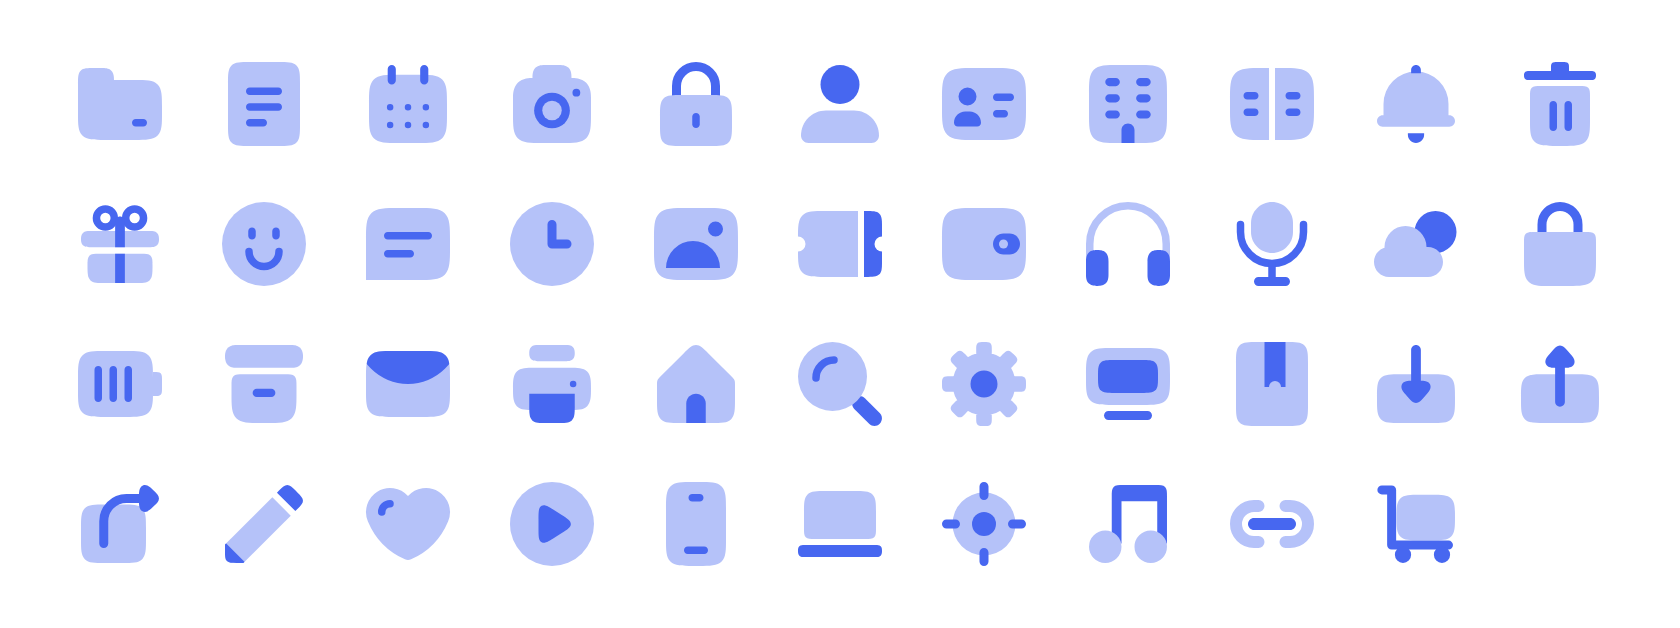
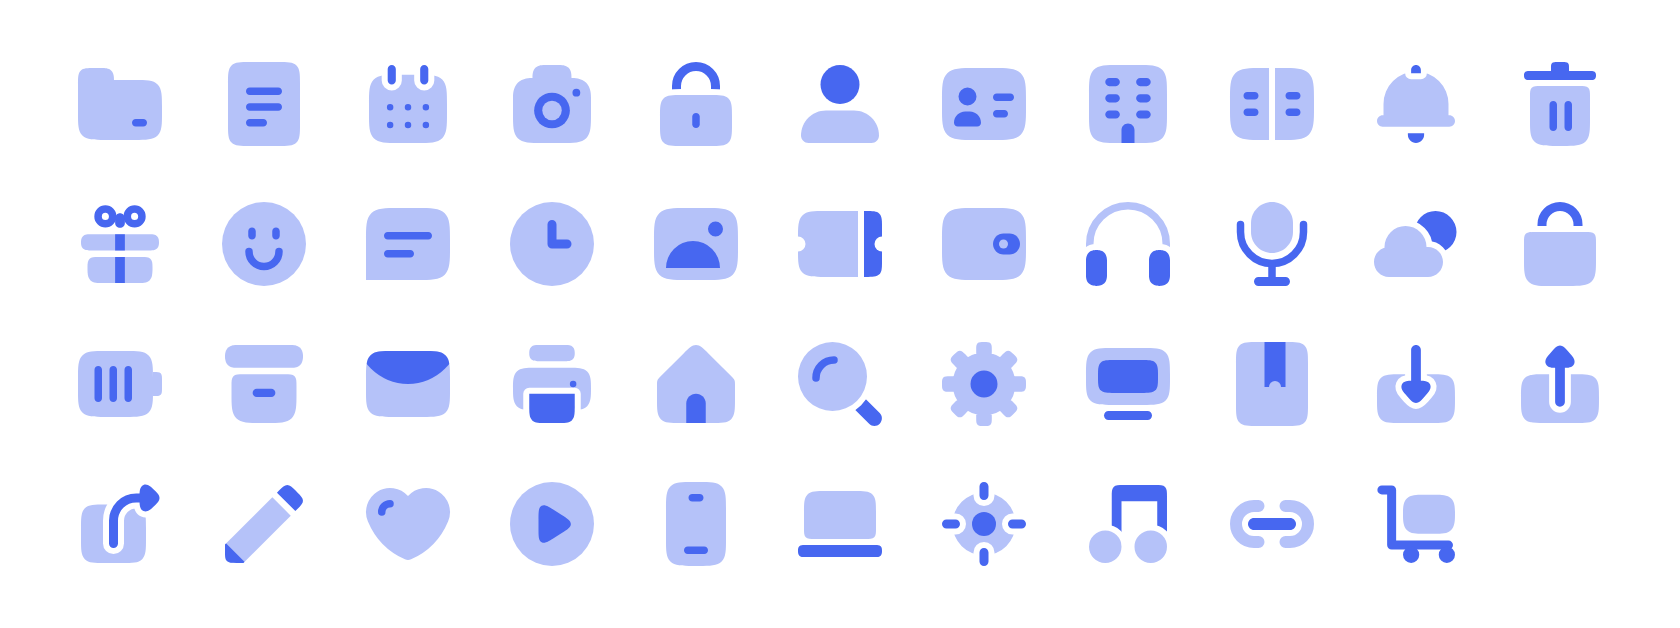
feat(skill): keep a line width between elements and align related parts
Front elements now cut a knockout outline into what they overlap (cloud,
lock, headphones, search, bag, music, arrows, calendar posts, bell knob,
printed sheet, location ticks). The gift's bow and the cart's basket
keep a gap of 1. The share arrow stands on the box's centre line, and the
cart's wheels sit symmetrically under its basket. The guide states the
gap, knockout and alignment rules.

diff --git a/styles/duotone/GUIDE.md b/styles/duotone/GUIDE.md
@@ -41,7 +41,7 @@
   - 钱包上一个大圆扣：像眼睛或摄像头。扣子要小，收在钱包里面。
   - 圆顶加一条平檐的铃铛：像餐盖。铃铛要有铃舌，檐只有 1.75 高。
   - 两块并排的楼：像柱状图或电池。建筑画成一栋楼，配两列窗条和一扇门。
-  - 两个实心圆的蝴蝶结：像一双眼睛。蝴蝶结画成两个圆环加一个结，落在盒盖上。
+  - 两个实心圆的蝴蝶结：像一双眼睛。蝴蝶结画成两个圆环加一个结，在盒盖上方隔一个线宽。
   - 一页六条线的书：像柜子。每页最多两条线。
   - 两个半圆的山：像两团东西。图片里只画一座山和一个太阳。
   - 购物袋和锁轮廓相同：靠提手和锁梁的粗细、锁孔区分。
@@ -75,7 +75,7 @@
   - 主色只是细节（线、点、指针、小部件）时，一般在三分之一左右或更少。
   - 主色是物体的一个大部件（屏幕、信封盖、耳罩、吐出的纸、放大镜圈）时，可以更多。
   - 不管哪种，都不能超过 60%。
-- **两种颜色直接相接，不留白缝。** 主色压在辅色上，靠深浅区分。这一条说的是一个部件落在另一个部件上面或里面的情况；两个分开的部件（电脑的屏幕和底座、盖子和箱体）不管什么颜色，都按第 6 节隔 1。
+- **印在主体上的细节和主体直接相接，不留白缝。** 主色细节完全印在浅色主体里面时，靠深浅区分，不加白边。分开的元素，以及跨过另一个元素边缘、压在它上面的元素，不管什么颜色，都按第 6 节处理：隔一个线宽，或者用白色描边蒙版切开。
 - **白色只用在两处：**
   - 几何上把一个物体分开的缝，比如盖子和箱体、书的两页、票和票根。
   - 主色部件上本来就是孔的地方，比如镜头中心、钱包扣的扣眼。
@@ -117,15 +117,28 @@
 - 细节要轻：线太粗、点太大、离边太近，都会显得稚嫩。
 - 表盘类（时钟、笑脸）是浅色表面，指针和五官用 1.25–1.5 的主色线条。不加外框，加了会像线性图标。
 
-## 6. 间距
+## 6. 间距、遮挡和对齐
 
-- 相邻两个元素只有两种关系：
-  - **相接或叠放：** 太阳藏在云后、蝴蝶结落在盒盖上、锁梁插进锁体、耳机头梁伸进耳罩。
-  - 叠放要有明确的遮挡关系：后面的元素被前面的盖住一块，约四分之一到三分之一，一眼看得出谁在前、谁在后。只擦到边的叠放和"差一点没接上"一样，看不出关系（太阳和云的画法见 `cloud`）。
-  - **正好隔 1：** 头和身体、盖子和箱体、书的两页、票和票根、话筒头和支架。
-- 不允许 0.5 这种"差一点没接上"的距离，也不允许 2 以上"飘在外面"的距离。
-- 一组并列的同类物体（两个开关、三张卡片）之间也按这一条：要么相接，要么正好隔 1。
-- 同一主体上的主色细节（眼睛和嘴、镜头和闪光灯、几条字线）是细节的节奏，按第 5 节处理，不按这一条。
+- **分开的元素之间至少隔一个线宽 `W`（1），而且正好是 1。** 刚好贴着（0）和差一点（0.5）都不行，飘出去 2 以上也不行。例如头和身体、盖子和箱体、书的两页、票和票根、蝴蝶结和盒盖、购物车的车筐和车架、话筒头和支架。
+- **一个元素压在另一个元素上面时，前面的元素加一圈宽 `W` 的白色描边蒙版（`gap: W`），把后面的元素切开。** 这样两个元素之间同样隔着一个线宽，又能看出谁在前。例如：
+  - 云挡住太阳。
+  - 锁体挡住锁梁，袋身挡住提手。
+  - 耳罩挡住头梁，镜片挡住放大镜手柄。
+  - 符头挡住符干。
+  - 箭头压在盒子上（下载、上传、分享）。
+  - 日历的立柱、铃铛顶上的钮、定位的刻度跨过主体边缘。
+  - 打印机吐出的纸压在机身上。
+- 叠放要有明确的遮挡关系：后面的元素被前面的盖住一块，约四分之一到三分之一，一眼看得出谁在前、谁在后。只擦到边的叠放看不出关系（见 `cloud`）。
+- 一个元素由几层组成时（箭头的箭杆和箭头头部），给这几层写同一个 `part`，它们的蒙版不会互相切开。
+- 以下几种不算分开的元素，不受这一条限制：
+  - 完全印在主体里面的细节（字线、点、指针、表情、窗条、站在底边上的门）。
+  - 用 `clip` 从主体上截出来的部分（信封盖、笔尖）。
+  - 同一主体上的主色细节之间的距离（眼睛和嘴、镜头和闪光灯），按第 5 节处理。
+- **关系要规整。** 相关的元素对齐到同一条中线或同一条边上：
+  - 分享、下载、上传的箭杆落在盒子的中线上。
+  - 门、锁孔、钮、铃舌、底座落在主体的中线上。
+  - 成对的部件（耳罩、轮子、眼睛、窗条）以主体为中心对称，例如购物车的两个轮子以车筐为中心。
+  - 一组细节（字线、点）左边对齐，间距相等。
 
 ## 7. 切割
 
@@ -157,7 +170,8 @@
   - `body(x, y, w, h, 半径, [{ x, w, h, c }])`：顶边带凸起的主体。
   - 描边写 `L(路径, { sw: K })`，镂空写 `cut: [C(形状)]`。
   - `clip: 形状`：只画这一层落在形状里面的部分。用主色画主体的一部分时用它，部件和主体的圆角完全一致，例如信封盖是主体被一个圆截出来的上半部分（见 `mail`）。不要用全画布矩形加反向路径去凑。
-  - `gap: 1`：在这一层的轮廓外切出一圈宽 1 的白缝，压在它下面的层被切开。只用在几何上分开一个物体、又不方便直接把形状画短的地方。
+  - `gap: W`：在这一层的轮廓外切出一圈宽 `W` 的白缝，把它下面的层切开。前面的元素压在后面的元素上时用它（第 6 节）。
+  - `part: '名字'`：几层属于同一个元素时写同一个名字，它们的 `gap` 不会互相切开。
 - 每画一个图标之前，先在 `icons.mjs` 里读一两个结构最接近的范例：
   - 带盖的看垃圾桶和归档盒。
   - 一分为二的看书和票。
@@ -184,7 +198,8 @@ node check.mjs --only 新图标A,新图标B --with folder,lock,calendar
   - `keyline`：轮廓没有填满关键形状（差 0.25 以上）。
   - `primary`：主色超过着色面积的 60%。
   - `tones`：只用了一种颜色。
-  - `spacing`：相邻元素既不相接，也不是正好隔 1。
+  - `spacing`：分开的元素之间不是正好隔 1（刚好贴着也算）。
+  - `overlap`：一个元素压在另一个元素上，却没有白色描边蒙版。
 
 `findings.md` 的 Findings 必须清空：要么改图，要么确认后用 `allow` 声明。然后对照截图，逐条检查下面的清单：
 
@@ -193,7 +208,7 @@ node check.mjs --only 新图标A,新图标B --with folder,lock,calendar
 3. 主体是浅色，主色只在关键部件和细节上，两色之间没有白缝。
 4. 每个角的半径符合第 4 节的表；没有尖角，没有倒角，没有随意的一边圆一边方。
 5. 细节的线宽、点径、离边距离符合第 5 节，一个面上的线不超过三条。
-6. 相邻元素要么相接，要么正好隔 1。
+6. 分开的元素正好隔 1；压在别的元素上的元素带着 `gap: W` 的白边；相关元素对齐中线、成对的部件对称。
 7. 物体最多分成两到三部分。
 
 ## 10. 导出
